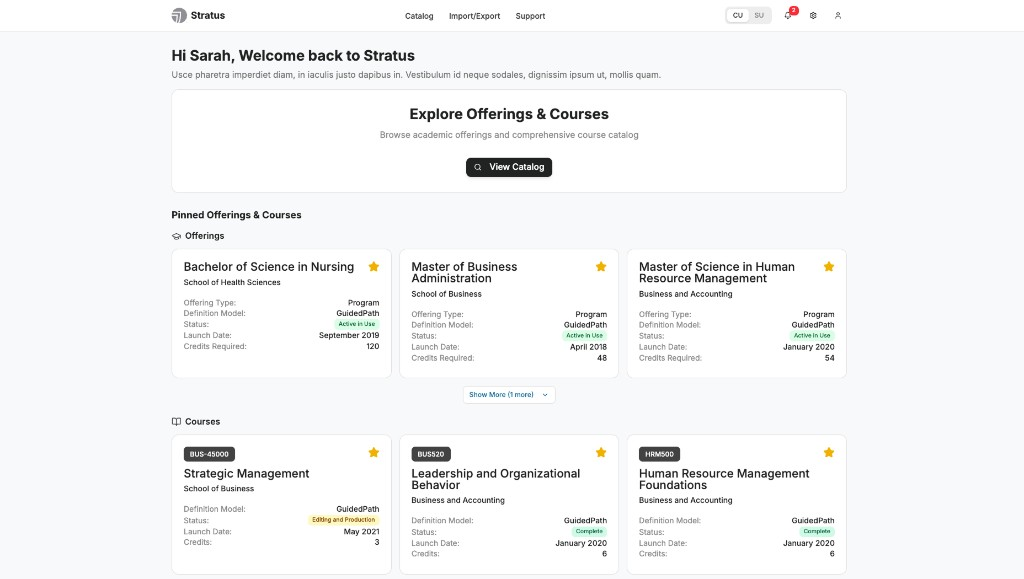
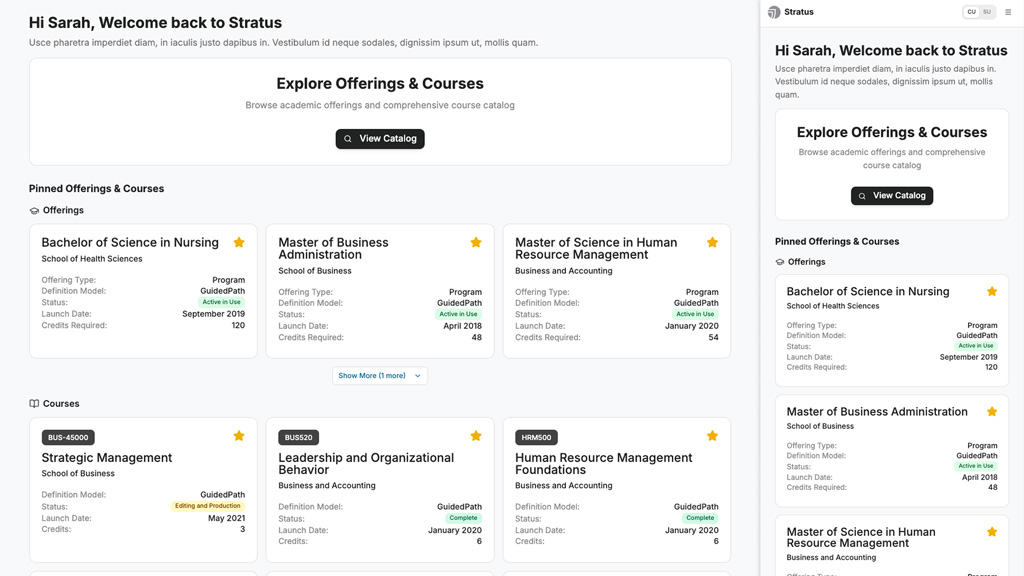
Convert site images to compressed JPG and update references.
Replace PNG assets with optimized JPGs to reduce payload size, update image paths across project data and pages, and refresh the learner feedback survey final design alt text.

diff --git a/src/data/projects.js b/src/data/projects.js
@@ -1,7 +1,7 @@
 /**
  * Final design carousel images — export each slide at 1024px wide (1x) and 2048px wide (@2x),
  * 16:9 aspect ratio. Place files in public/images/projects/ using an @2x suffix for retina,
- * e.g. curriculum-catalog-final.png and [email redacted]
+ * e.g. curriculum-catalog-final.jpg and [email redacted]
  *
  * Pass retinaSrc only after the @2x file exists; otherwise the browser may request a missing asset.
  */
@@ -81,18 +81,18 @@ export const projects = [
     role: 'Lead UX Designer',
     timeline: '2025 – 2026',
     tools: ['Figma', 'Dovetail', 'Cursor', 'Miro'],
-    image: '/images/projects/curriculum-catalog.png',
+    image: '/images/projects/curriculum-catalog.jpg',
     imageAlt: 'Stratus enterprise curriculum catalog dashboard and course management views',
     imageWidth: 538,
     imageHeight: 300,
     imageSizes: '(min-width: 1024px) 50vw, (min-width: 640px) 100vw, 100vw',
-    processImage: '/images/projects/curriculum-catalog-process.png',
+    processImage: '/images/projects/curriculum-catalog-process.jpg',
     processImageAlt:
       'Stakeholder research video call alongside component color tokens and Atlas offering versions documentation',
     processImageWidth: 1024,
     processImageHeight: 576,
     processImageCaption: 'Stakeholder research, design standards, and platform documentation',
-    approachImage: '/images/projects/curriculum-catalog-approach.png',
+    approachImage: '/images/projects/curriculum-catalog-approach.jpg',
     approachImageAlt:
       'Stratus catalog dashboard wireframes showing desktop and mobile pinned offerings and courses layouts',
     approachImageWidth: 1024,
@@ -100,19 +100,19 @@ export const projects = [
     approachImageCaption: 'Platform catalog experience prototype',
     finalDesignImages: [
       finalDesignImage({
-        src: '/images/projects/curriculum-catalog-final.png',
+        src: '/images/projects/curriculum-catalog-final.jpg',
         alt: 'Stratus catalog dashboard displayed on a laptop showing pinned offerings and courses',
-        retinaSrc: retinaSrcFor('/images/projects/curriculum-catalog-final.png'),
+        retinaSrc: retinaSrcFor('/images/projects/curriculum-catalog-final.jpg'),
       }),
       finalDesignImage({
-        src: '/images/projects/curriculum-catalog-final-3.png',
+        src: '/images/projects/curriculum-catalog-final-3.jpg',
         alt: 'Stratus dashboard with welcome banner and pinned program offerings grid',
-        retinaSrc: retinaSrcFor('/images/projects/curriculum-catalog-final-3.png'),
+        retinaSrc: retinaSrcFor('/images/projects/curriculum-catalog-final-3.jpg'),
       }),
       finalDesignImage({
-        src: '/images/projects/curriculum-catalog-final-2.png',
+        src: '/images/projects/curriculum-catalog-final-2.jpg',
         alt: 'Stratus catalog offerings list and Master of Business Administration program detail views',
-        retinaSrc: retinaSrcFor('/images/projects/curriculum-catalog-final-2.png'),
+        retinaSrc: retinaSrcFor('/images/projects/curriculum-catalog-final-2.jpg'),
       }),
     ],
   },
@@ -160,13 +160,13 @@ export const projects = [
     imageWidth: 951,
     imageHeight: 535,
     imageSizes: '(min-width: 640px) 50vw, 100vw',
-    processImage: '/images/projects/canvas-design-system-process.png',
+    processImage: '/images/projects/canvas-design-system-process.jpg',
     processImageAlt:
       'Capella Courseroom course pages showing assignment instructions, module overview video, and career portfolio activity',
     processImageWidth: 1024,
     processImageHeight: 575,
     processImageCaption: 'Capella Courseroom course pages before design system adoption',
-    approachImage: '/images/projects/canvas-design-system-approach.png',
+    approachImage: '/images/projects/canvas-design-system-approach.jpg',
     approachImageAlt:
       'Callout Cards documentation, Canvas Pattern Library training session, and live Courseroom component walkthrough',
     approachImageWidth: 1024,
@@ -174,19 +174,19 @@ export const projects = [
     approachImageCaption: 'Canvas Pattern Library training and component documentation',
     finalDesignImages: [
       finalDesignImage({
-        src: '/images/projects/canvas-design-system-final.png',
+        src: '/images/projects/canvas-design-system-final.jpg',
         alt: 'Canvas design system components including content cards, media hooks, accordion, blockquote, and definition tooltip',
-        retinaSrc: retinaSrcFor('/images/projects/canvas-design-system-final.png'),
+        retinaSrc: retinaSrcFor('/images/projects/canvas-design-system-final.jpg'),
       }),
       finalDesignImage({
-        src: '/images/projects/canvas-design-system-final-2.png',
+        src: '/images/projects/canvas-design-system-final-2.jpg',
         alt: 'Canvas Pattern Library documentation pages for overview and images',
-        retinaSrc: retinaSrcFor('/images/projects/canvas-design-system-final-2.png'),
+        retinaSrc: retinaSrcFor('/images/projects/canvas-design-system-final-2.jpg'),
       }),
       finalDesignImage({
-        src: '/images/projects/canvas-design-system-final-3.png',
+        src: '/images/projects/canvas-design-system-final-3.jpg',
         alt: 'Canvas Pattern Library documentation pages for hook media and accessibility',
-        retinaSrc: retinaSrcFor('/images/projects/canvas-design-system-final-3.png'),
+        retinaSrc: retinaSrcFor('/images/projects/canvas-design-system-final-3.jpg'),
       }),
     ],
   },
@@ -229,13 +229,13 @@ export const projects = [
     imageWidth: 979,
     imageHeight: 533,
     imageSizes: '(min-width: 640px) 50vw, 100vw',
-    processImage: '/images/projects/ai-authoring-tools-process.png',
+    processImage: '/images/projects/ai-authoring-tools-process.jpg',
     processImageAlt:
       'Atlas curriculum and course management system showing browse, search, program navigation, and curriculum development workflows',
     processImageWidth: 1024,
     processImageHeight: 576,
     processImageCaption: 'Legacy curriculum authoring workflows before redesign',
-    approachImage: '/images/projects/ai-authoring-tools-approach.png',
+    approachImage: '/images/projects/ai-authoring-tools-approach.jpg',
     approachImageAlt:
       'Offering details form and manage courses step with core course cards and context notes in the authoring workflow',
     approachImageWidth: 1024,
@@ -243,14 +243,14 @@ export const projects = [
     approachImageCaption: 'Curriculum and course authoring module prototype',
     finalDesignImages: [
       finalDesignImage({
-        src: '/images/projects/ai-authoring-tools-final.png',
+        src: '/images/projects/ai-authoring-tools-final.jpg',
         alt: 'Stratus Manage Courses screen on a tablet showing MBA core courses with competencies and alignments',
-        retinaSrc: retinaSrcFor('/images/projects/ai-authoring-tools-final.png'),
+        retinaSrc: retinaSrcFor('/images/projects/ai-authoring-tools-final.jpg'),
       }),
       finalDesignImage({
-        src: '/images/projects/ai-authoring-tools-final-2.png',
+        src: '/images/projects/ai-authoring-tools-final-2.jpg',
         alt: 'Stratus Duplicate Course modal and Add Validations page with ACBSP accreditation standards for an MBA offering',
-        retinaSrc: retinaSrcFor('/images/projects/ai-authoring-tools-final-2.png'),
+        retinaSrc: retinaSrcFor('/images/projects/ai-authoring-tools-final-2.jpg'),
       }),
     ],
   },
@@ -297,7 +297,7 @@ export const projects = [
     imageWidth: 951,
     imageHeight: 535,
     imageSizes: '(min-width: 640px) 50vw, 100vw',
-    approachImage: '/images/projects/flexpath-research-approach.png',
+    approachImage: '/images/projects/flexpath-research-approach.jpg',
     approachImageAlt:
       'Research collage showing coach interviews, Qualtrics XM Discover support trends, and learner survey results on competency-based grading',
     approachImageWidth: 1024,
@@ -407,13 +407,13 @@ export const projects = [
     imageWidth: 906,
     imageHeight: 494,
     imageSizes: '(min-width: 640px) 50vw, 100vw',
-    processImage: '/images/projects/quiz-authoring-platform-process.png',
+    processImage: '/images/projects/quiz-authoring-platform-process.jpg',
     processImageAlt:
       'Collage of published learning activities: a step-based presentation module, a math skills self-assessment quiz, and an interactive worksheet with learner text inputs',
     processImageWidth: 1024,
     processImageHeight: 576,
     processImageCaption: 'Legacy assessments interactive media activities',
-    approachImage: '/images/projects/quiz-authoring-platform-approach.png',
+    approachImage: '/images/projects/quiz-authoring-platform-approach.jpg',
     approachImageAlt:
       'Learner-facing activity screens combining video, imagery, and quiz questions with immediate formative feedback on correct and incorrect responses',
     approachImageWidth: 1024,
@@ -421,11 +421,11 @@ export const projects = [
     approachImageCaption: 'Video, imagery, and formative assessment patterns validated with learners',
     finalDesignImages: [
       finalDesignImage({
-        src: '/images/projects/quiz-authoring-platform-final.png',
+        src: '/images/projects/quiz-authoring-platform-final.jpg',
         alt: 'Published learning activities side by side: APA Breakout narrative module with step navigation and Choosing Materials for Play Therapy scenario-based assessment',
       }),
       finalDesignImage({
-        src: '/images/projects/quiz-authoring-platform-final-2.png',
+        src: '/images/projects/quiz-authoring-platform-final-2.jpg',
         alt: 'Published learning activities side by side: Non-Directive Play Therapy Techniques presentation module and Communicating a Team Contract open-response assessment',
       }),
     ],
@@ -440,7 +440,7 @@ export const projects = [
     summary:
       'Led UX strategy and redesign to capture learner feedback at interactive media completion—targeted to individual activities rather than generic site-wide prompts. Partnered with product, engineering, and academic stakeholders through implementation and rollout.',
     challenge:
-      'The legacy approach cast too wide a net. Because feedback wasn\'t tied to specific interactive media, the team couldn\'t gather meaningful insights about individual activities. Visibility was also a problem: the survey link lived in the footer, was easy to overlook, and learners often never saw it—leading to very low response rates and limited qualitative or satisfaction data.',
+      'The legacy approach cast too wide a net. Because feedback wasn\'t tied to specific interactive media, the team couldn\'t gather meaningful insights about individual activities. Visibility was also a problem: the survey link lived in the footer, was easy to overlook—leading to very low response rates and limited qualitative or satisfaction data.',
     approach: [
       'Defined a UX strategy to target feedback to specific interactive media rather than generic, site-wide prompts.',
       'Redesigned the experience with a prominent completion CTA presented immediately after learners finished an activity.',
@@ -476,12 +476,8 @@ export const projects = [
     imageSizes: '(min-width: 640px) 50vw, 100vw',
     finalDesignImages: [
       finalDesignImage({
-        src: '/images/projects/learner-feedback-survey-final.png',
-        alt: 'End-of-activity completion prompt asking whether the interactive media experience was helpful, with a prominent Tell us what you think call to action',
-      }),
-      finalDesignImage({
-        src: '/images/projects/learner-feedback-survey-final-2.png',
-        alt: 'Learner feedback modal with five-star rating, comments field, and submit and cancel actions',
+        src: '/images/projects/learner-feedback-survey-final.jpg',
+        alt: 'Learner feedback flow showing the end-of-activity prompt asking whether the interactive media experience was helpful, alongside the rating modal with five stars, comments field, and submit actions',
       }),
     ],
   },

diff --git a/src/config/heroVisual.js b/src/config/heroVisual.js
@@ -11,7 +11,7 @@ export const HERO_SLIDES = [
   {
     id: 'research',
     label: 'Research',
-    image: '/images/hero/research.png',
+    image: '/images/hero/research.jpg',
     imageAlt: 'Affinity mapping session with sticky notes organized on a glass wall',
     imageWidth: 950,
     imageHeight: 950,
@@ -20,7 +20,7 @@ export const HERO_SLIDES = [
   {
     id: 'design',
     label: 'Design',
-    image: '/images/hero/design.png',
+    image: '/images/hero/design.jpg',
     imageAlt: 'Low-fidelity wireframe layouts for desktop and mobile curriculum catalog views',
     imageWidth: 1574,
     imageHeight: 1563,
@@ -29,7 +29,7 @@ export const HERO_SLIDES = [
   {
     id: 'impact',
     label: 'Measure',
-    image: '/images/hero/measure.png',
+    image: '/images/hero/measure.jpg',
     imageAlt: 'UX Venn diagram showing user experience at the intersection of business, users, and technology',
     imageWidth: 1024,
     imageHeight: 1024,

diff --git a/src/pages/AboutPage.jsx b/src/pages/AboutPage.jsx
@@ -20,7 +20,7 @@ export default function AboutPage() {
       <section className="grid lg:grid-cols-3 gap-12 mb-20" aria-labelledby="about-heading">
         <figure className="lg:col-span-1 m-0">
           <ResponsiveImage
-            src="/images/kerry-hanson-profile.png"
+            src="/images/kerry-hanson-profile.jpg"
             alt={`${profile.name} profile photo`}
             width={800}
             height={800}